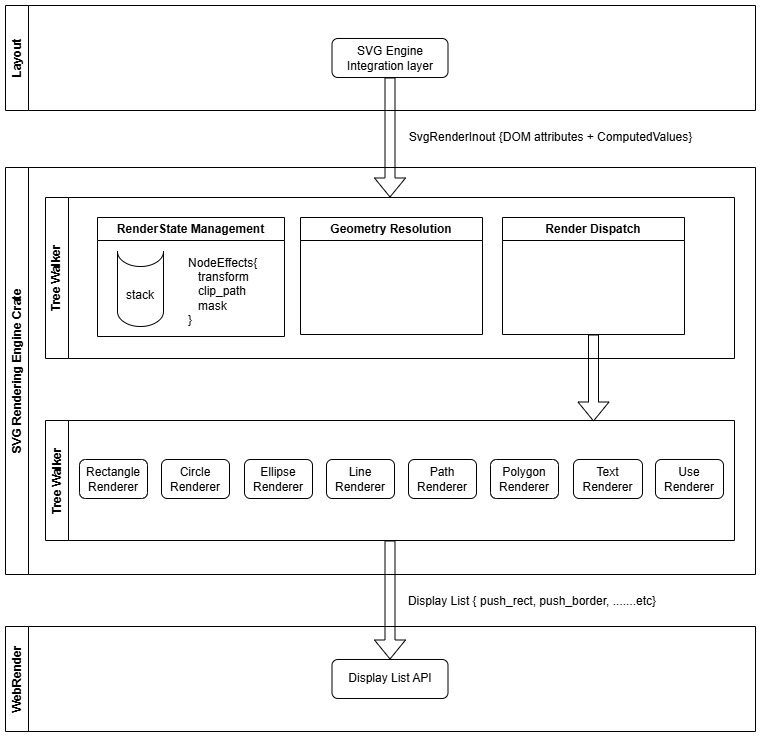
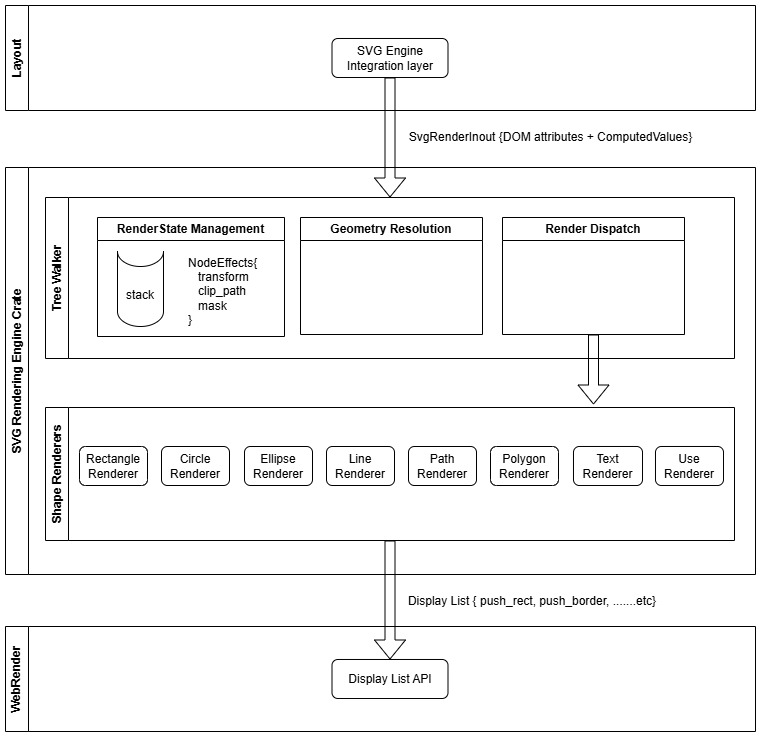
aa

diff --git a/svg_architecture_docs/svg_engine.md b/svg_architecture_docs/svg_engine.md
@@ -56,14 +56,6 @@ walk_tree(tree):
     walk_node(tree.root, RenderState::default())
 ```
 
-For container nodes, the walker:
-1. Pushes the container's `transform` (if any) onto `RenderState.current_transform`
-3. Pushes the container's `clip-path` and `mask` onto the corresponding state fields
-2. Recursively walks children with the updated state
-2. Pops all changes when exiting the container
-
-For shape nodes, the walker resolves geometry and dispatches to the matching render function. The current `RenderState` values are passed through to each render call.
-
 ## 3. Data Model
 
 The data model is organized as a rendering tree that mirrors the hierarchical structure of SVG elements. Each node in the tree stores only what is unique to its element, while inherited state (transform, clip path, mask) is tracked externally during tree traversal.
@@ -103,7 +95,7 @@ struct SvgRenderNode {
 | Field | Type | Description |
 |---|---|---|
 | `tag` | `SvgTag` | Element type discriminant — for shapes, carries the geometry data inline |
-| `styles` | `NodeStyles` | Bundled rendering parameters — fill, stroke, effects, opacity, hints, visibility, display, and paint order (see Section 2.6) |
+| `styles` | `NodeStyles` | Bundled rendering parameters — fill, stroke, effects, opacity, hints, visibility, display, and paint order |
 | `children` | `list of SvgRenderNode` | Child nodes in the rendering tree |
 
 ## 4. Crate Structure
